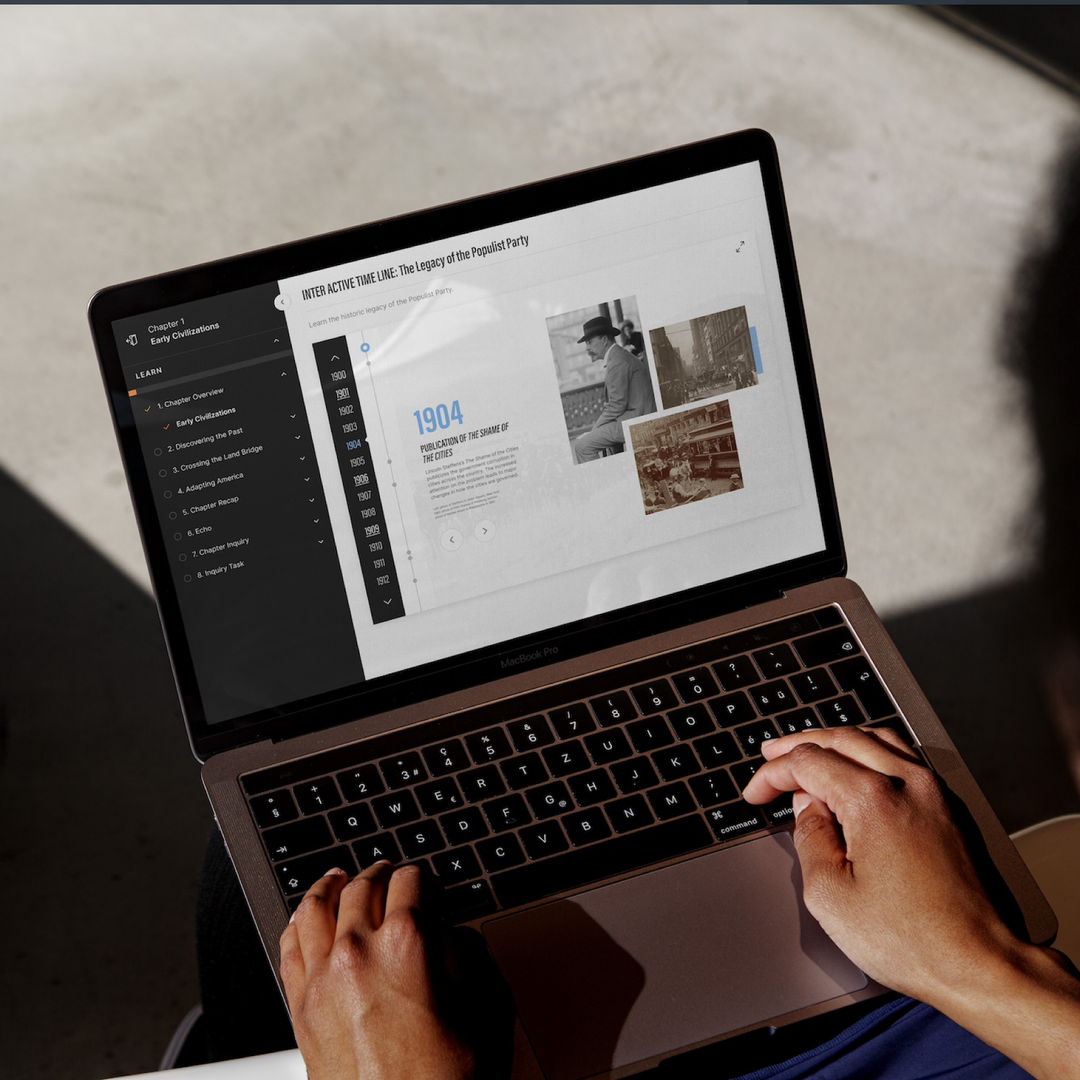
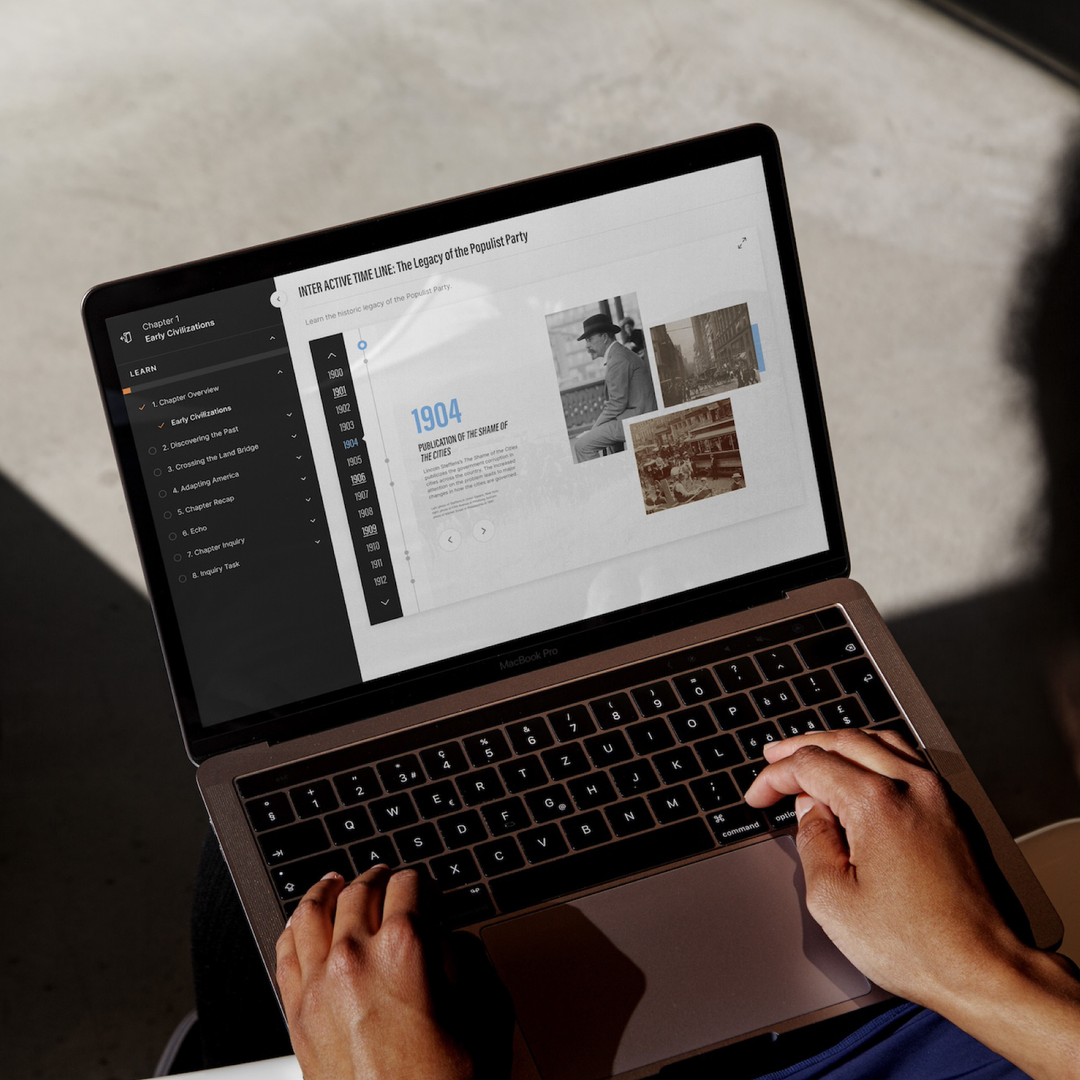
About: bold cobalt accessibility line with calmer ripple; update Traverse hero image
- Accessibility sentence now cobalt, bold, with a calmer word-by-word ripple
- Replace Traverse hero cover (Project_1.webp) with the corrected image

diff --git a/src/index.css b/src/index.css
@@ -271,18 +271,17 @@
 .group:hover .uw,
 .group:focus-visible .uw { background-size: 100% 1px; }
 
-/* Ripple for the emphasised sentence in the About intro: a quick lift-and-tilt travels word by word,
+/* Calm ripple for the emphasised sentence in the About intro: a small lift travels word by word,
    then the line rests before the next pass. Per-word delay is set inline (see RevealWords). */
 @keyframes soft-bounce {
-  0%, 38%, 100% { transform: translateY(0) rotate(0) scale(1); }
-  10% { transform: translateY(-7px) rotate(-2deg) scale(1.06); }
-  22% { transform: translateY(1px) rotate(0.6deg) scale(0.995); }
-  30% { transform: translateY(-2px) rotate(0) scale(1.01); }
+  0%, 46%, 100% { transform: translateY(0) rotate(0) scale(1); }
+  16% { transform: translateY(-4px) rotate(-1deg) scale(1.03); }
+  30% { transform: translateY(0.5px) rotate(0) scale(1); }
 }
 .bounce-soft {
   display: inline-block;
   transform-origin: 50% 100%;
-  animation: soft-bounce 3.4s cubic-bezier(0.34, 1.4, 0.5, 1) infinite;
+  animation: soft-bounce 4.2s cubic-bezier(0.4, 0, 0.3, 1) infinite;
 }
 @media (prefers-reduced-motion: reduce) {
   .uw { transition: none; }

diff --git a/src/pages/About.tsx b/src/pages/About.tsx
@@ -9,7 +9,7 @@ const INTRO: (string | { text: string; bold?: boolean; className?: string }[])[]
   "I blend strategy and storytelling to create clear, empathetic design across digital and print. My work spans brand systems, marketing, social, web, and editorial layout, always guided by modern simplicity. Pretty is fun, but pretty and useful is where I get excited.",
   [
     { text: "I also specialize in accessible design, from inclusive graphics to complex branded PDFs that meet WCAG, PDF/UA, and Section 508. To me, accessibility isn't an add-on. " },
-    { text: "It makes design better for everyone.", bold: true, className: "font-semibold text-[#A8324A]" },
+    { text: "It makes design better for everyone.", bold: true, className: "font-bold" },
   ],
   "When I'm not designing, you'll find me salsa dancing, watching a film, or reading a good fiction novel.",
 ];

diff --git a/src/components/Reveal.tsx b/src/components/Reveal.tsx
@@ -267,7 +267,7 @@ export const RevealWords = ({
         <span
           className="bounce-soft"
           style={{
-            animationDelay: `${(bounceAt * 0.09).toFixed(2)}s`,
+            animationDelay: `${(bounceAt * 0.1).toFixed(2)}s`,
           }}
         >
           {w}
